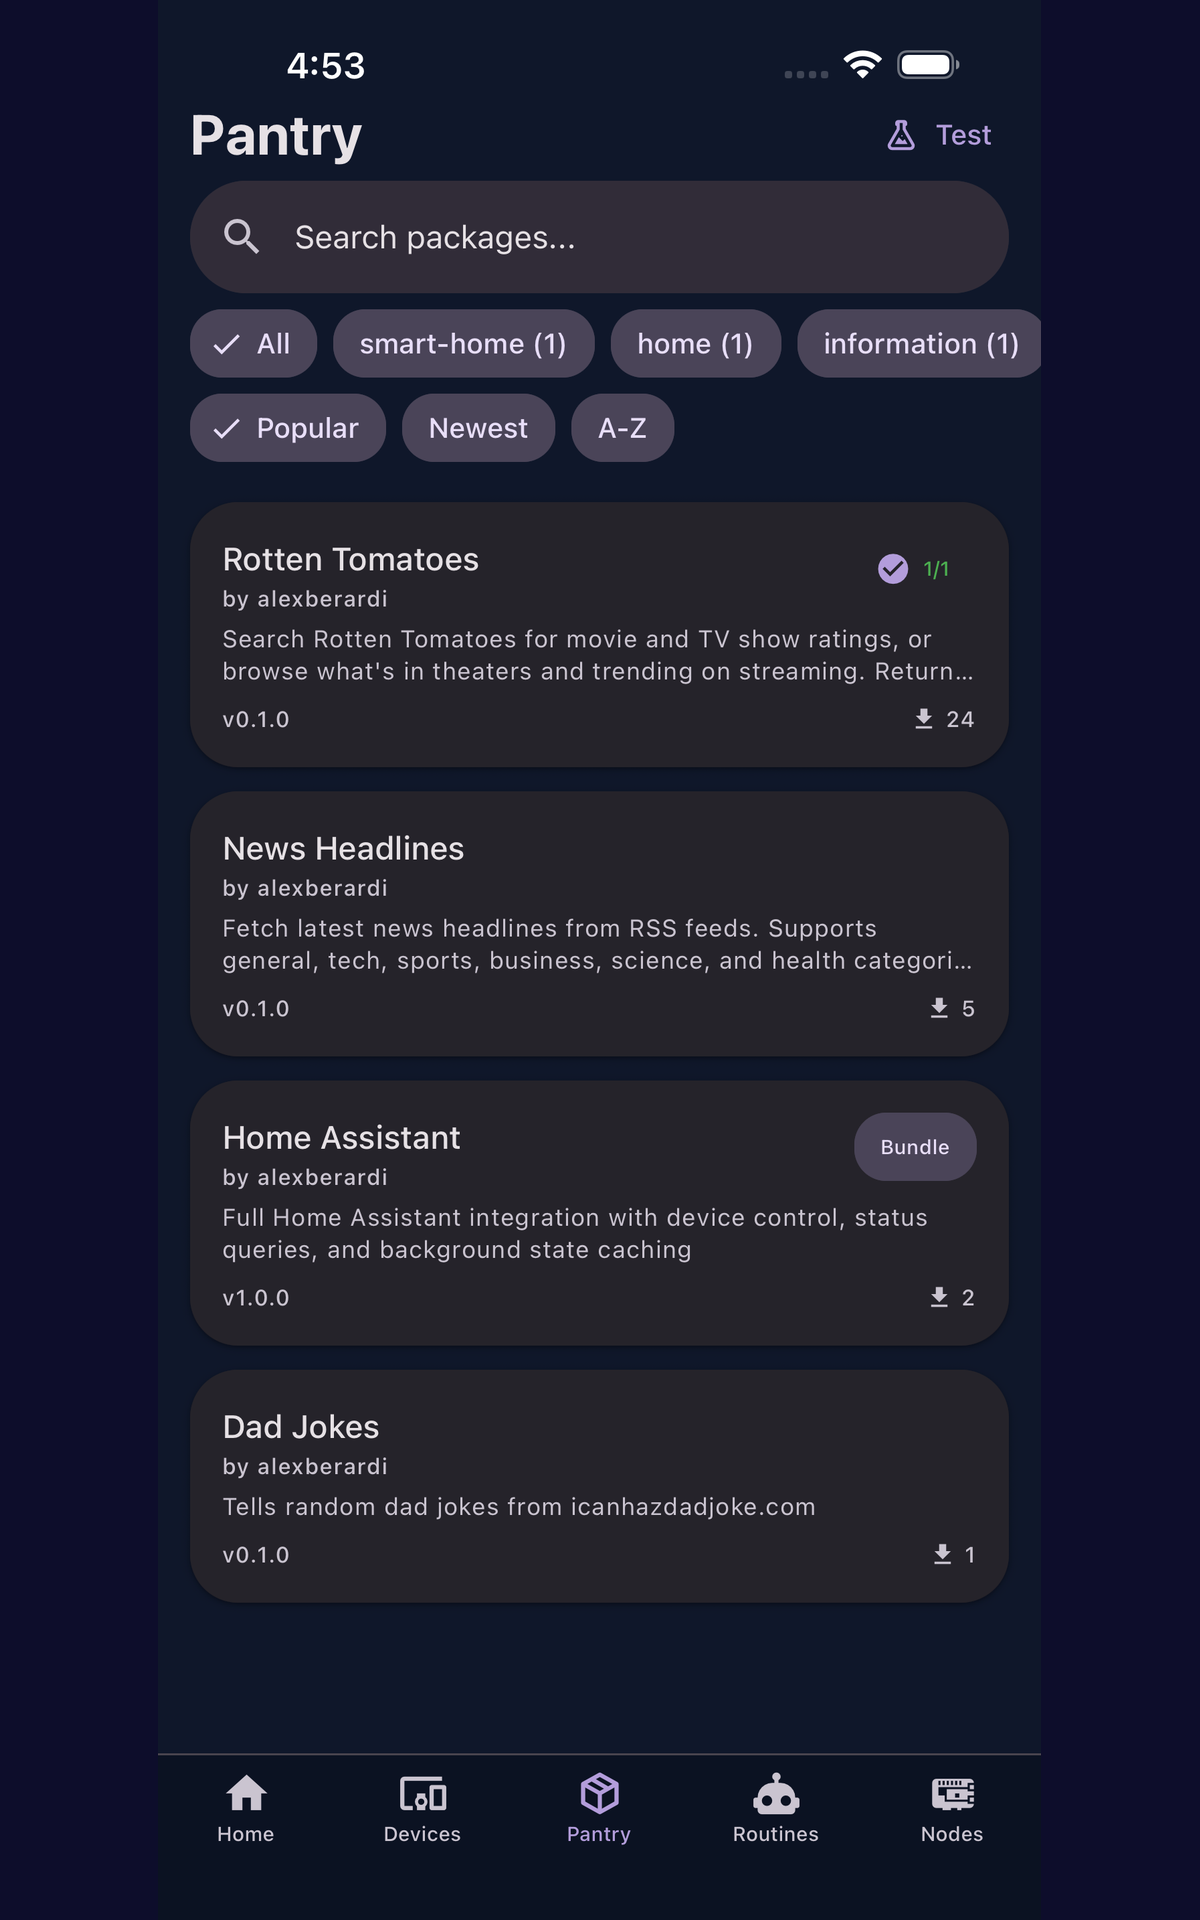
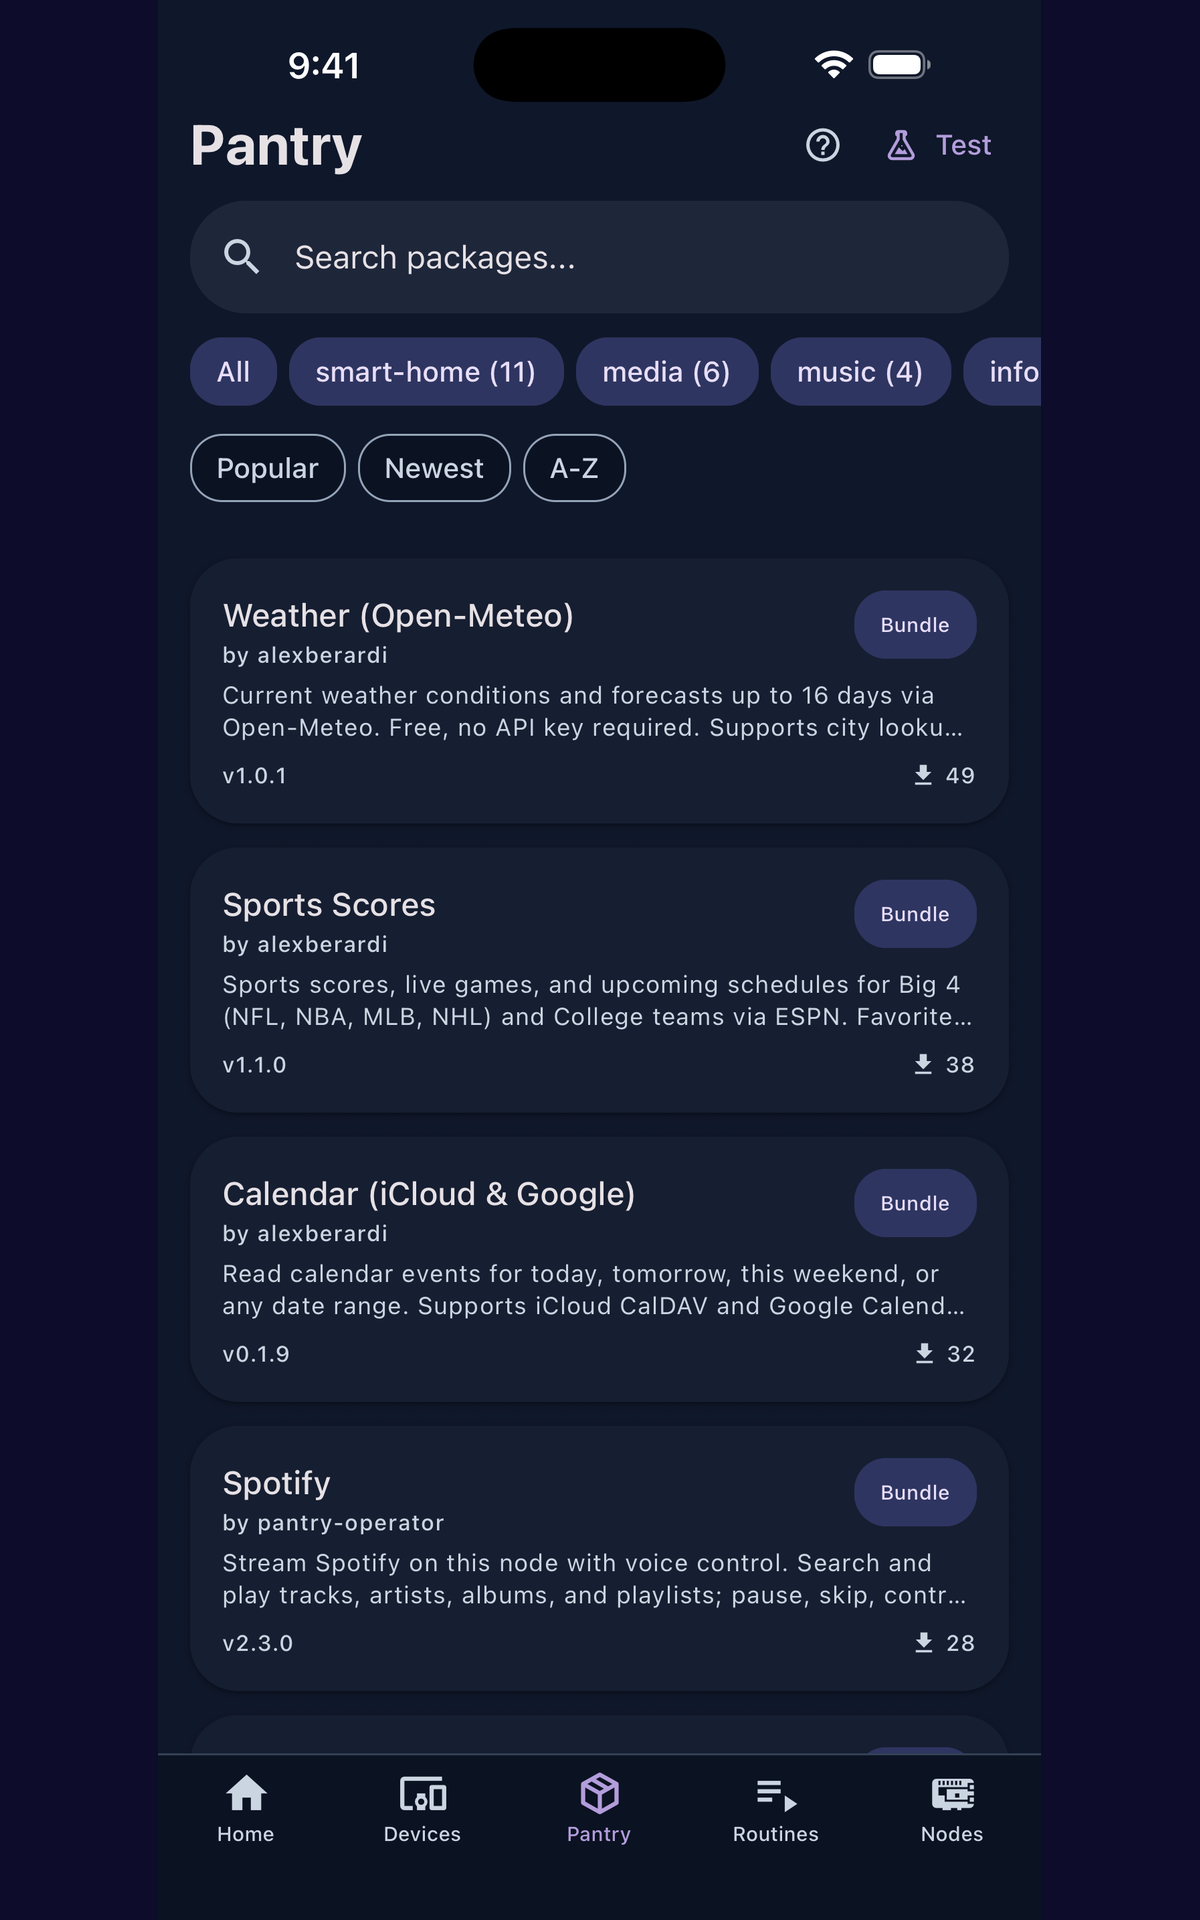
chore(store): 1.0.5 release notes and screenshots (#164)
* chore(store): release notes for 1.0.5; the description names chat channels

Claude-Session: https://claude.ai/code/session_01YVTg44EZiYLeHajQsPKbVK

* chore(store): new screenshots for 1.0.5, and the framing scripts

Captured on the iPhone 17 Pro Max simulator (dark, status bar at 9:41)
against a sandbox seeded with the pseudonymous dev household, framed
with frame_shots.py like the current listing. The household slot now
shows Jarvis's personality settings, and the Nodes shot has a computer.

frame_shots.py and push_release_notes.py were used for the last listing
but never committed; push_asc_screenshots.py and push_play_images.py
already read frame_shots.py's output.

Claude-Session: https://claude.ai/code/session_01YVTg44EZiYLeHajQsPKbVK

* chore(store): scope the 1.0.5 notes to what changed since 1.0.4

The first draft started from the July notes, so it repeated the August
home/away and automation work that shipped in 1.0.4 builds, and it missed
changes whose subjects had no feat/fix prefix: computers as nodes, now
playing, Inbox pictures and videos, simple routines, finding nodes on the
network, the Android voice fix.

Claude-Session: https://claude.ai/code/session_01YVTg44EZiYLeHajQsPKbVK

---------

diff --git a/scripts/store/_content.py b/scripts/store/_content.py
@@ -40,6 +40,7 @@ Pair a Raspberry Pi Zero (or any node) once with a QR code, connect your smart d
 WHAT YOU CAN DO
 
 • Chat with Jarvis from your phone — handy when speaking out loud isn't an option.
+• Link your Discord or Slack account and talk to Jarvis there too, including voice clips.
 • Provision Pi Zero voice nodes in minutes with QR-code pairing and guided Wi-Fi setup.
 • Control lights, locks, plugs, thermostats, cameras, and speakers across Home Assistant, Hue, LIFX, Govee, Kasa, Nest, Schlage, SimpliSafe, Z-Wave, and more.
 • Organize devices into rooms (rooms can nest — Upstairs > Bedroom) so Jarvis picks the right device when you say "the bedroom light".
@@ -132,43 +133,48 @@ Local network: server auto-discovery.
 No analytics or tracking. Open source: https://docs.jarvisautomation.dev"""
 
 # ── Release notes (What's New) ───────────────────────────────────────────────
-# Customer-facing changes since build 131 (v1.0.0 → v1.0.2).
+# Customer-facing changes from v1.0.4 to v1.0.5 (mobile main since 0b6b3a1, 2026-09-16).
 # ASC limit: 4000 chars. Pushed by push_release_notes.py.
-WHATS_NEW = """Talk to Jarvis faster, automate more, and keep even more under your control.
+WHATS_NEW = """Jarvis now works from your computer and your chat apps, shows what's playing, and does more on its own.
 
 NEW
-• Instant voice access on iOS — launch straight into a listening Jarvis from the Action Button, Control Center, or a Shortcut.
-• Face ID / Touch ID login — opt-in biometric unlock for your account.
-• All-new routine builder — build automations step by step with smart dropdowns for your actual devices, rooms, and commands, plus schedules and a Run Now button.
-• Memories — review, edit, or delete what Jarvis remembers about you, right from Settings.
-• HomeKit pairing — pair locks, thermostats, and more directly from the Devices tab.
-• Interactive lists in your Inbox — turn a voice-made shopping list into an exported cart, with an item picker when there's more than one match.
-• Node updates are now consent-based — nodes never update until you explicitly enable it, and the consent travels end-to-end encrypted so only your phone can flip it.
-• Package health at a glance — "Needs setup" and "Failed" badges, plus one-tap revert to the previous version of any installed package.
-• More voice tuning — new node voice settings including wake acknowledgment and sensitivity controls.
+• Computers as nodes: add a Mac, Windows or Linux computer to your household, approve it from the app, and talk to Jarvis there too.
+• Chat channels: link your account on Discord or Slack and talk to Jarvis there, including voice clips. Jarvis shows what it heard and answers in text.
+• Now playing: see what every node is playing, with cover art, a seek bar and controls, plus a mini-player above the tabs.
+• Photos in chat: attach a picture and ask Jarvis about it, when your server's model can see images.
+• Pictures and videos in your Inbox: view them, save them, or share them.
+• Things Jarvis did on its own: Inbox cards show what ran in the background and its answer, and watch alerts get their own layout. Household switches decide how much Jarvis may do without asking.
+• Simple routines: describe what Jarvis should do in plain words, or switch to the step-by-step editor.
+• Phone calls: choose which commands can be used on a call, and set up your household's Twilio number.
+• Several Pantry stores: choose which store each package comes from, and see where an installed package came from.
+• Household time zone, from the Household screen.
 
 IMPROVED
-• Chat is ready the moment your node is — newly paired nodes appear without restarting the app, tools load automatically, and the message box waits until your node can actually hear you.
-• You stay signed in reliably, and signing out is instant and clean.
-• Push notifications are now off by default — enable them only if you want them; everything else stays on your network.
-• Your login tokens now live in the iOS Keychain.
-• Better server discovery on tricky networks, and a pinned server address is always respected.
+• Adding a node: the app finds nodes on your network that are ready to set up.
+• Bluetooth pairing shows devices as they're found, and you can pair mid-scan. Device scans let you pick the node and cancel.
+• A switch or light whose state can't be read now says Unknown instead of guessing.
+• Inbox buttons show whether their action worked.
+• Node updates compare versions correctly and fetch the node's own release.
+• Voice settings explain why they can't load, and show the automatic wake sensitivity.
+• Chat has a new look, with a waveform while Jarvis is thinking.
+• Setting up: one server address on the landing screen, and a node is never handed an address it can't reach.
+• Clearer dark mode, readable chips and consistent page titles throughout.
 
 FIXED
-• A crash when creating or importing password-protected key backups.
-• Long dropdowns in the routine editor now scroll.
-• General stability improvements throughout the app."""
+• Voice from Android phones is transcribed correctly.
+• You're signed out cleanly after a password reset, and the app recovers its session if it opened while your phone was locked.
+• Times from your server always show in your time zone; an offline node never says "Just now".
+• The photo picker and the message box behave when the keyboard is open.
+• General stability improvements."""
 
 # Play limit: 500 chars per language.
 PLAY_RELEASE_NOTES = (
-    "New: instant voice from Shortcuts, biometric login, all-new routine "
-    "builder with device-aware dropdowns, Memories you can review and delete, "
-    "HomeKit pairing, consent-based node updates, package health badges with "
-    "one-tap revert.\n"
-    "Improved: chat is ready as soon as your node is, reliable sign-in, push "
-    "notifications now off by default.\n"
-    "Fixed: crash in password-protected key backups, routine editor "
-    "scrolling, stability."
+    "New: computers as nodes; talk to Jarvis from Discord or Slack; now "
+    "playing card; photos in chat and in your Inbox; see what Jarvis did on "
+    "its own; simple routines; phone-call settings; several Pantry stores.\n"
+    "Improved: find nodes on your network, live Bluetooth pairing, clearer "
+    "device states and Inbox buttons, a new chat look.\n"
+    "Fixed: Android voice, clean sign-out, correct times, keyboard issues."
 )
 assert len(PLAY_RELEASE_NOTES) <= 500, "Play release notes exceed 500 chars"
 

diff --git a/scripts/store/frame_shots.py b/scripts/store/frame_shots.py
@@ -1,0 +1,126 @@
+#!/usr/bin/env python3
+"""Render framed, captioned marketing variants of the store screenshots.
+
+For each screenshot in ``_content.SHOTS`` this composites the raw capture
+onto the brand background with rounded corners, a hairline bezel, and a
+short headline. Outputs exact store-accepted sizes:
+
+  assets/store/framed-appstore/<name>.png    (1320×2868, ASC iPhone 6.9")
+  assets/store/framed-play-phone/<name>.png  (1500×2868, Play phone)
+
+Idempotent — safe to re-run after recapturing any screenshot.
+"""
+from __future__ import annotations
+
+import sys
+from pathlib import Path
+
+from PIL import Image, ImageDraw, ImageFont
+
+sys.path.insert(0, str(Path(__file__).parent))
+from _content import SHOTS  # noqa: E402
+
+REPO = Path(__file__).resolve().parents[2]
+SHOTS_DIR = REPO / "screenshots" / "output"
+STORE = REPO / "assets" / "store"
+
+# name → (dir, canvas size). Sizes are the exact store-accepted dimensions,
+# mirroring the raw-derived dirs prepare_assets.py produces.
+OUTPUTS = {
+    "framed-appstore": (STORE / "framed-appstore", (1320, 2868)),      # ASC iPhone 6.9"
+    "framed-play-phone": (STORE / "framed-play-phone", (1500, 2868)),  # Play phone
+    "framed-ipad-13": (STORE / "framed-ipad-13", (2048, 2732)),        # ASC iPad 13" / Play 10"
+    "framed-play-tablet-7": (STORE / "framed-play-tablet-7", (1200, 1920)),  # Play 7"
+}
+
+BRAND_BG = (13, 13, 43)  # #0d0d2b (splash colour, see app.json)
+HEADLINE_RGB = (237, 237, 247)
+BEZEL_RGB = (255, 255, 255, 36)
+
+# name (sans .png) → headline. Keep to ~28 chars/line, max 2 lines.
+HEADLINES: dict[str, str] = {
+    "home": "Ask anything.\nControl everything.",
+    "devices": "Every device,\norganized by room",
+    "routines": "Routines that\nrun your day",
+    "routine-edit": "Build automations,\nstep by step",
+    "rooms": "Rooms that\nmirror your home",
+    "inbox": "Alerts and reminders,\ndelivered quietly",
+    "nav-pantry": "Add skills\nfrom the Pantry",
+    "nodes": "Voice nodes and\ncomputers, together",
+    "settings-household": "Choose how\nJarvis talks",
+    "auth-landing": "Self-hosted.\nPrivate by design.",
+}
+
+
+def load_font(size: int) -> ImageFont.FreeTypeFont | ImageFont.ImageFont:
+    for path, index in [
+        ("/System/Library/Fonts/HelveticaNeue.ttc", 10),  # Bold face
+        ("/System/Library/Fonts/HelveticaNeue.ttc", 0),
+        ("/System/Library/Fonts/Helvetica.ttc", 1),
+        ("/System/Library/Fonts/Helvetica.ttc", 0),
+    ]:
+        try:
+            return ImageFont.truetype(path, size, index=index)
+        except OSError:
+            continue
+    return ImageFont.load_default(size)
+
+
+def rounded(im: Image.Image, radius: int) -> Image.Image:
+    mask = Image.new("L", im.size, 0)
+    d = ImageDraw.Draw(mask)
+    d.rounded_rectangle([0, 0, im.size[0] - 1, im.size[1] - 1], radius=radius, fill=255)
+    out = im.convert("RGBA")
+    out.putalpha(mask)
+    return out
+
+
+def frame(name: str, canvas_w: int, canvas_h: int) -> Image.Image:
+    src = Image.open(SHOTS_DIR / f"{name}.png").convert("RGB")
+    canvas = Image.new("RGB", (canvas_w, canvas_h), BRAND_BG)
+    draw = ImageDraw.Draw(canvas, "RGBA")
+
+    # Scale typography with the canvas so tablet sizes keep proportions.
+    k = canvas_w / 1320
+    font = load_font(round(96 * k))
+    line_h = round(118 * k)
+    text_top = round(128 * k)
+    corner = max(24, round(64 * k))
+
+    headline = HEADLINES.get(name, "")
+    lines = headline.split("\n") if headline else []
+    for i, line in enumerate(lines):
+        w = draw.textlength(line, font=font)
+        draw.text(((canvas_w - w) / 2, text_top + i * line_h), line,
+                  font=font, fill=HEADLINE_RGB)
+
+    # Screenshot below the headline, rounded + hairline bezel
+    top = text_top + len(lines) * line_h + round(96 * k)
+    bottom_margin = round(128 * k)
+    avail_h = canvas_h - top - bottom_margin
+    scale = min(avail_h / src.height, (canvas_w - round(200 * k)) / src.width)
+    new_size = (round(src.width * scale), round(src.height * scale))
+    shot = src.resize(new_size, Image.Resampling.LANCZOS)
+    shot = rounded(shot, radius=corner)
+    x = (canvas_w - new_size[0]) // 2
+    canvas.paste(shot, (x, top), shot)
+    draw.rounded_rectangle(
+        [x, top, x + new_size[0] - 1, top + new_size[1] - 1],
+        radius=corner, outline=BEZEL_RGB, width=3,
+    )
+    return canvas
+
+
+def main() -> None:
+    for out_dir, _ in OUTPUTS.values():
+        out_dir.mkdir(parents=True, exist_ok=True)
+    for fname in SHOTS:
+        name = fname.removesuffix(".png")
+        for out_dir, (w, h) in OUTPUTS.values():
+            frame(name, w, h).save(out_dir / fname, "PNG", optimize=True)
+        print(f"  {fname}")
+    print("Done.")
+
+
+if __name__ == "__main__":
+    main()

diff --git a/scripts/store/push_release_notes.py b/scripts/store/push_release_notes.py
@@ -1,0 +1,119 @@
+#!/usr/bin/env python3
+"""Push release notes (What's New) to both stores from ``_content.py``.
+
+- App Store Connect: PATCH ``whatsNew`` on the editable version's en-US
+  localization (requires a version in PREPARE_FOR_SUBMISSION; not editable
+  on an app's very first version).
+- Google Play: set ``releaseNotes`` on the newest release of the target
+  track (default: internal). The notes ride along when the release is
+  promoted to other tracks.
+
+Usage:
+    python3 push_release_notes.py                 # dry-run
+    python3 push_release_notes.py --apply         # both stores
+    python3 push_release_notes.py --apply --only asc
+    python3 push_release_notes.py --apply --only play --track internal
+"""
+from __future__ import annotations
+
+import argparse
+import sys
+from pathlib import Path
+
+import requests
+
+sys.path.insert(0, str(Path(__file__).parent))
+from _config import (  # noqa: E402
+    ASC_API_BASE,
+    PLAY_LANGUAGE,
+    PLAY_PACKAGE,
+    asc_headers,
+    get_asc_resources,
+    play_credentials,
+)
+from _content import PLAY_RELEASE_NOTES, WHATS_NEW  # noqa: E402
+
+
+def push_asc(dry: bool) -> None:
+    print(f"── ASC whatsNew ({len(WHATS_NEW)} chars) ──")
+    if dry:
+        print("  [DRY] would PATCH appStoreVersionLocalizations.whatsNew")
+        return
+    h = asc_headers()
+    ids = get_asc_resources(h)
+    loc_id = ids["appStoreVersionLocalization"]
+    r = requests.patch(
+        f"{ASC_API_BASE}/appStoreVersionLocalizations/{loc_id}",
+        headers={**h, "Content-Type": "application/json"},
+        json={
+            "data": {
+                "type": "appStoreVersionLocalizations",
+                "id": loc_id,
+                "attributes": {"whatsNew": WHATS_NEW},
+            }
+        },
+        timeout=30,
+    )
+    if r.status_code not in (200, 204):
+        raise RuntimeError(f"ASC whatsNew failed {r.status_code}: {r.text[:600]}")
+    print(f"  ✅ whatsNew set on localization {loc_id}")
+
+
+def push_play(dry: bool, track: str) -> None:
+    print(f"── Play releaseNotes ({len(PLAY_RELEASE_NOTES)} chars) → track '{track}' ──")
+    if dry:
+        print("  [DRY] would set releaseNotes on the newest release")
+        return
+    from google.auth.transport.requests import Request as GoogleAuthRequest
+
+    creds = play_credentials()
+    creds.refresh(GoogleAuthRequest())
+    h = {"Authorization": f"Bearer {creds.token}"}
+    base = (
+        "https://androidpublisher.googleapis.com/androidpublisher/v3/"
+        f"applications/{PLAY_PACKAGE}"
+    )
+    edit_id = requests.post(f"{base}/edits", headers=h, json={}, timeout=20).json()["id"]
+    try:
+        t = requests.get(f"{base}/edits/{edit_id}/tracks/{track}", headers=h, timeout=20)
+        t.raise_for_status()
+        body = t.json()
+        releases = body.get("releases", [])
+        if not releases:
+            raise RuntimeError(f"no releases on track {track!r}")
+        releases[0]["releaseNotes"] = [
+            {"language": PLAY_LANGUAGE, "text": PLAY_RELEASE_NOTES}
+        ]
+        r = requests.put(
+            f"{base}/edits/{edit_id}/tracks/{track}", headers=h, json=body, timeout=30
+        )
+        if not r.ok:
+            raise RuntimeError(f"track update failed {r.status_code}: {r.text[:600]}")
+        c = requests.post(f"{base}/edits/{edit_id}:commit", headers=h, timeout=30)
+        if not c.ok:
+            raise RuntimeError(f"commit failed {c.status_code}: {c.text[:600]}")
+        rel = releases[0]
+        print(f"  ✅ notes set on release {rel.get('name')} (versions {rel.get('versionCodes')}), edit committed")
+    except Exception:
+        requests.delete(f"{base}/edits/{edit_id}", headers=h, timeout=20)
+        raise
+
+
+def main() -> int:
+    ap = argparse.ArgumentParser(description=__doc__)
+    ap.add_argument("--apply", action="store_true")
+    ap.add_argument("--only", choices=["asc", "play", "both"], default="both")
+    ap.add_argument("--track", default="internal", help="Play track (default: internal)")
+    args = ap.parse_args()
+
+    dry = not args.apply
+    if args.only in ("asc", "both"):
+        push_asc(dry)
+    if args.only in ("play", "both"):
+        push_play(dry, args.track)
+    print("Done." + (" (dry-run)" if dry else ""))
+    return 0
+
+
+if __name__ == "__main__":
+    sys.exit(main())
